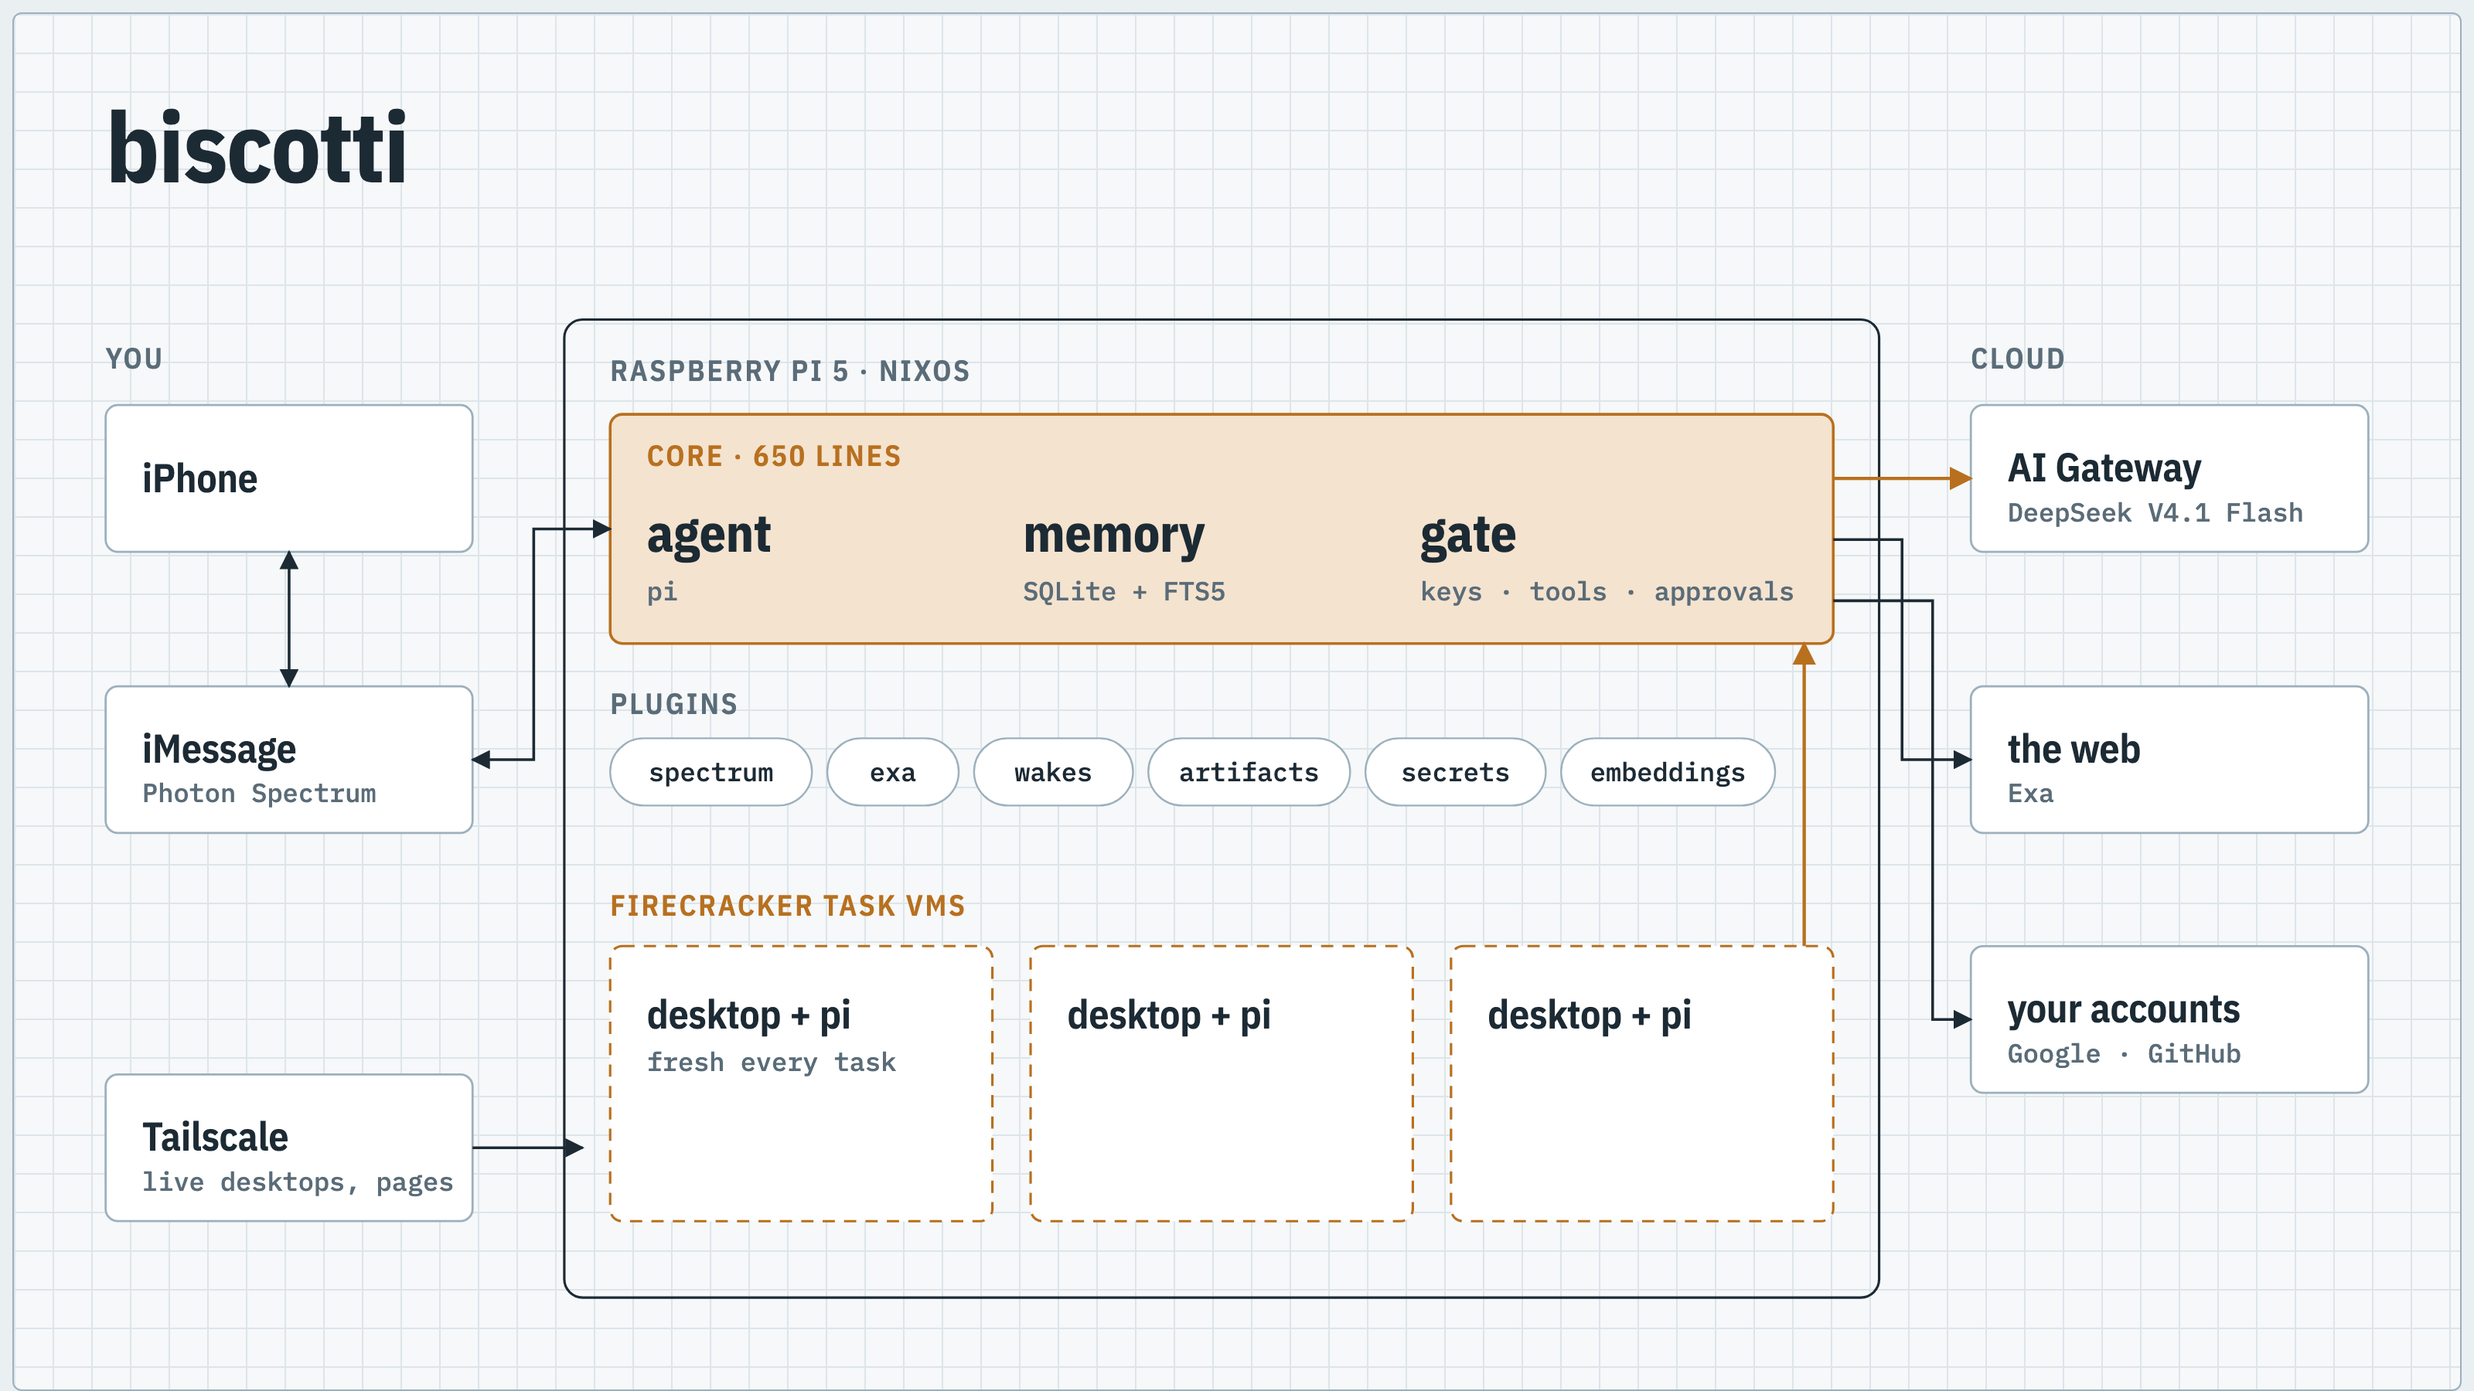
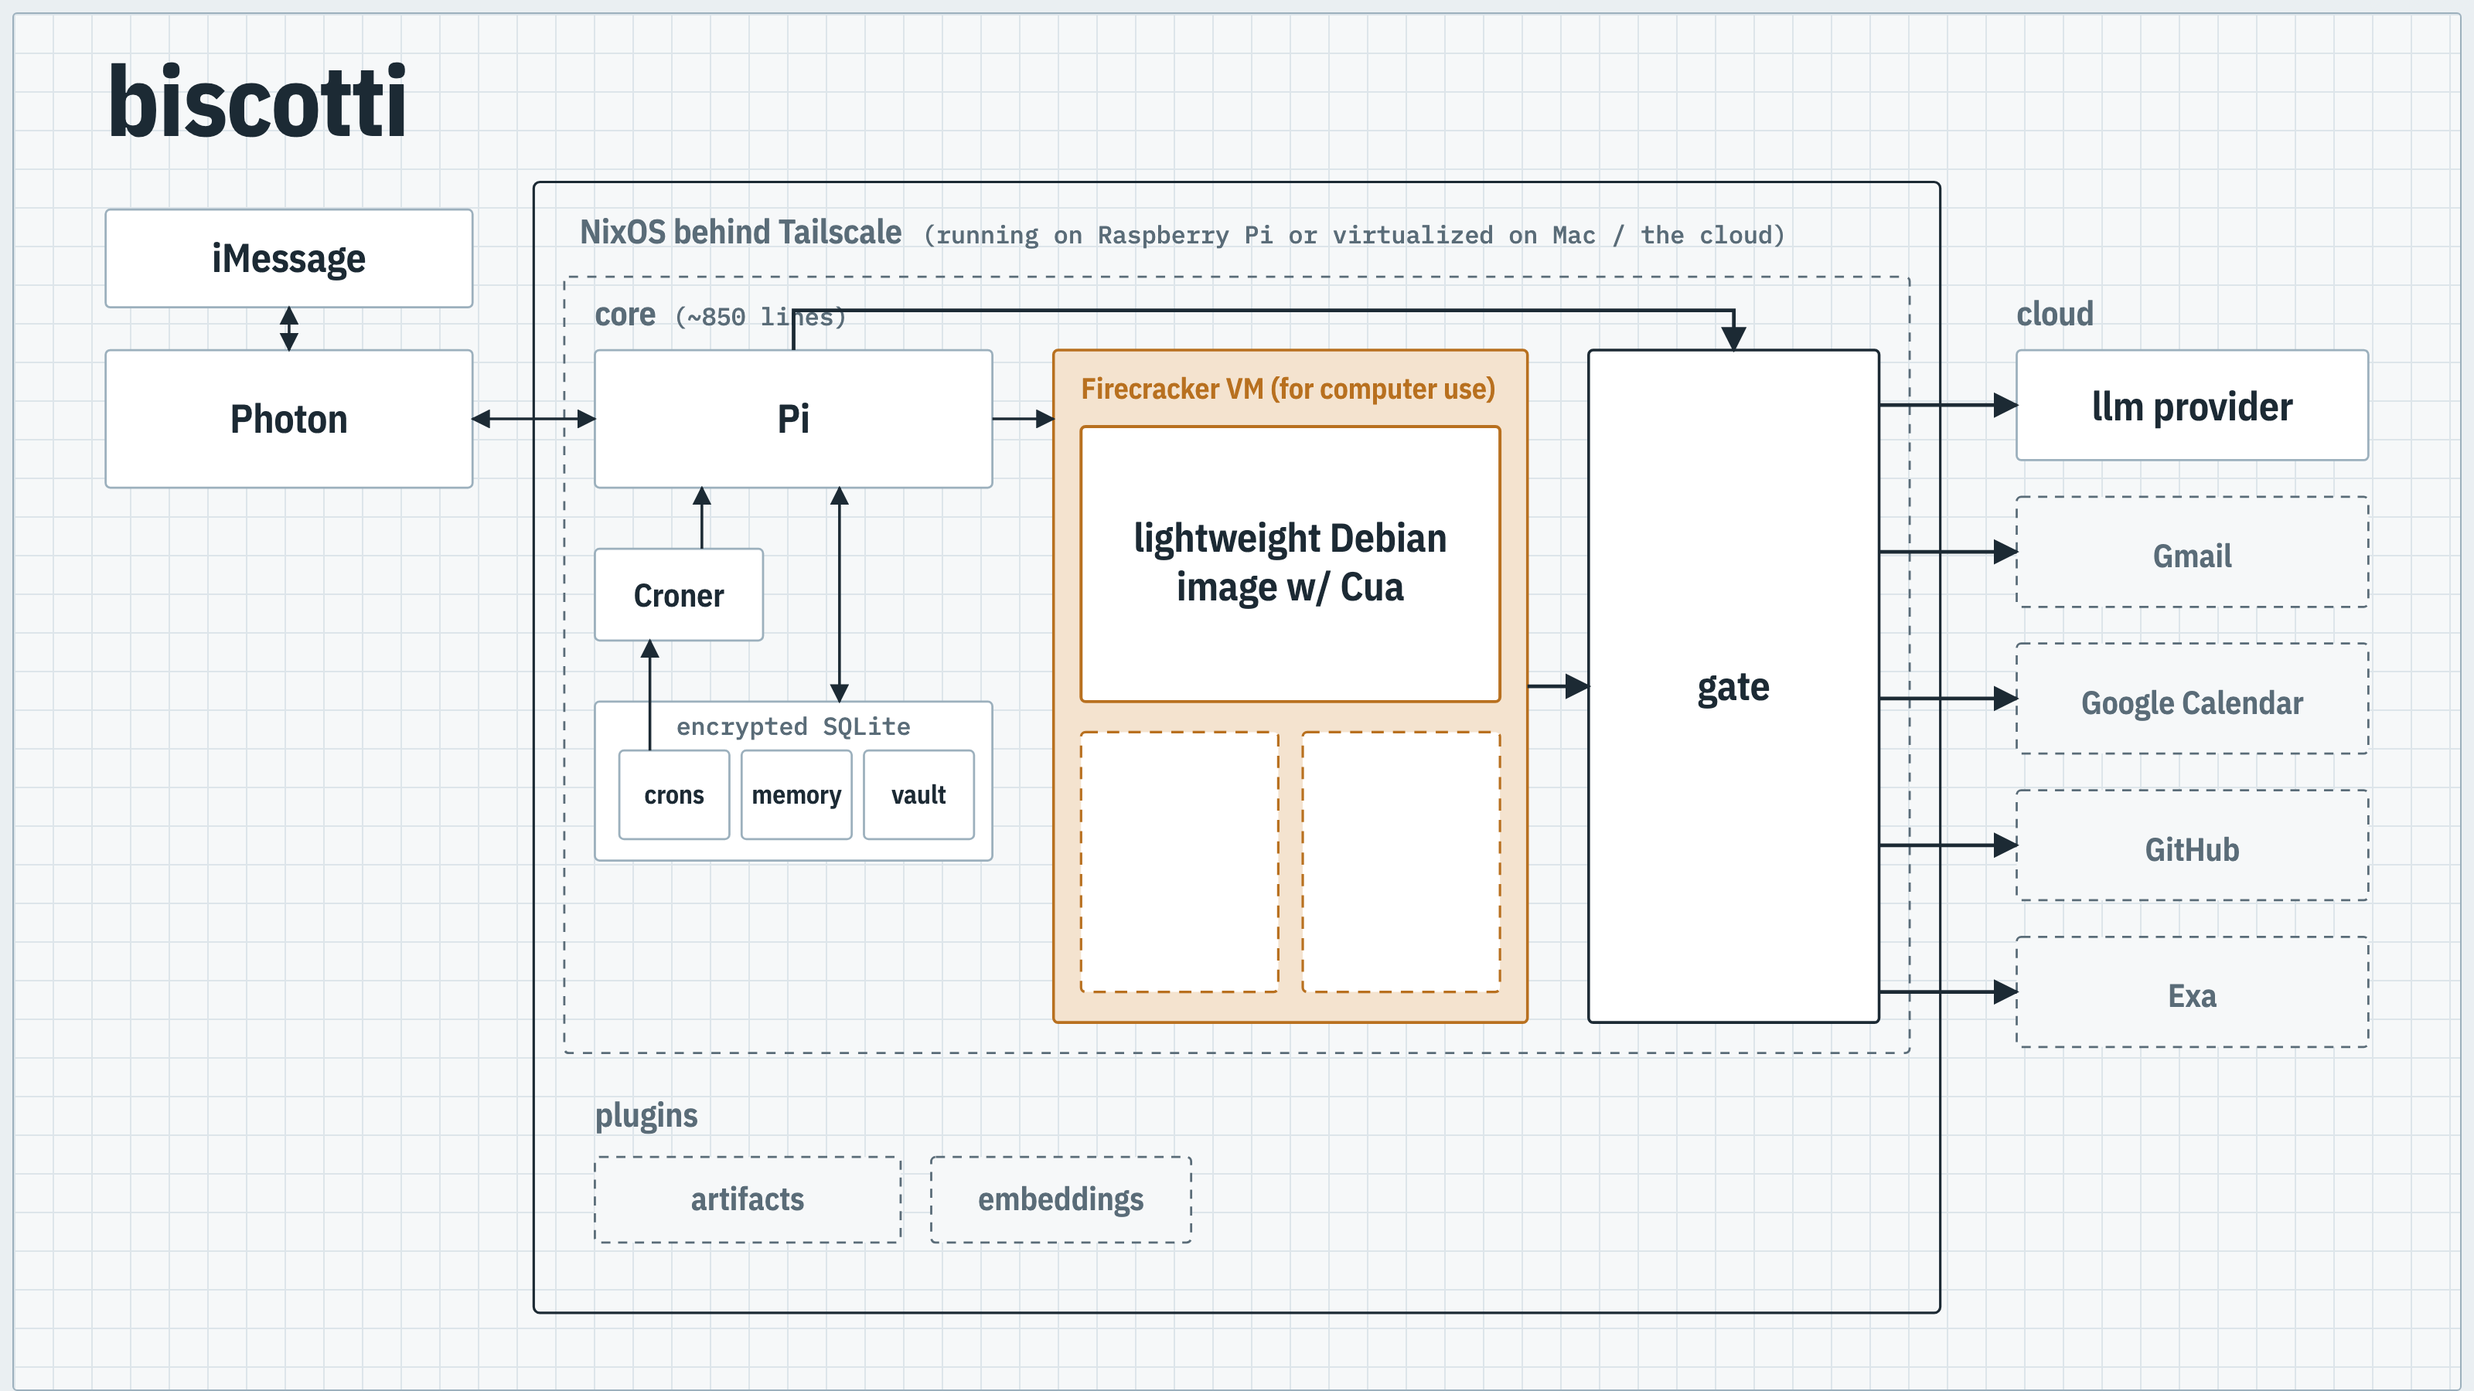
diagram

diff --git a/docs/architecture.html b/docs/architecture.html
@@ -14,19 +14,20 @@
     --grid: #dde5ea;
     --accent: #b8701f;
     --accent-soft: #f4e3cf;
+    --vm-bg: #e2eaf0;
     --display: "IBM Plex Sans Condensed", "Arial Narrow", sans-serif;
     --mono: "IBM Plex Mono", ui-monospace, monospace;
   }
   @media (prefers-color-scheme: dark) {
     :root:not([data-theme="light"]) {
       --bg: #10181e; --sheet: #141e25; --panel: #1b2730; --ink: #e2e9ee; --muted: #93a6b3;
-      --line: #465966; --grid: #1c2830; --accent: #e3a35a; --accent-soft: #3a2a17;
+      --line: #465966; --grid: #1c2830; --accent: #e3a35a; --accent-soft: #3a2a17; --vm-bg: #22323d;
       color-scheme: dark;
     }
   }
   :root[data-theme="dark"] {
     --bg: #10181e; --sheet: #141e25; --panel: #1b2730; --ink: #e2e9ee; --muted: #93a6b3;
-    --line: #465966; --grid: #1c2830; --accent: #e3a35a; --accent-soft: #3a2a17;
+    --line: #465966; --grid: #1c2830; --accent: #e3a35a; --accent-soft: #3a2a17; --vm-bg: #22323d;
     color-scheme: dark;
   }
   body {
@@ -43,100 +44,108 @@
     background-image: linear-gradient(var(--grid) 1px, transparent 1px), linear-gradient(90deg, var(--grid) 1px, transparent 1px);
     background-size: 25px 25px;
     border: 1px solid var(--line);
-    border-radius: 6px;
+    border-radius: 3px;
     overflow-x: auto;
   }
   svg { display: block; width: 100%; min-width: 900px; height: auto; }
   .box { fill: var(--panel); stroke: var(--line); stroke-width: 1.4; }
   .frame { fill: none; stroke: var(--ink); stroke-width: 1.6; }
   .core { fill: var(--accent-soft); stroke: var(--accent); stroke-width: 1.8; }
-  .vm { fill: var(--panel); stroke: var(--accent); stroke-width: 1.6; stroke-dasharray: 8 6; }
-  .chip { fill: var(--panel); stroke: var(--line); stroke-width: 1.2; }
+  .group { fill: none; stroke: var(--line); stroke-width: 1.4; }
+  .vms { fill: var(--accent-soft); stroke: var(--accent); stroke-width: 1.8; }
+  .gate { fill: var(--panel); stroke: var(--ink); stroke-width: 1.8; }
+  .region { fill: none; stroke: var(--muted); stroke-width: 1.4; stroke-dasharray: 6 6; }
+  .plugin { fill: var(--sheet); stroke: var(--muted); stroke-width: 1.4; stroke-dasharray: 6 5; }
+  .p { font: 600 21px var(--display); fill: var(--muted); }
+  .vm { fill: var(--panel); stroke: var(--accent); stroke-width: 2; }
+  .vm.idle { stroke-dasharray: 8 6; stroke-width: 1.6; }
   .title { font: 700 64px var(--display); fill: var(--ink); letter-spacing: -0.01em; }
   .t { font: 600 26px var(--display); fill: var(--ink); }
-  .big { font: 700 34px var(--display); fill: var(--ink); }
-  .s { font: 500 17px var(--mono); fill: var(--muted); }
-  .c { font: 500 17px var(--mono); fill: var(--ink); }
-  .label { font: 600 19px var(--display); fill: var(--muted); letter-spacing: 0.08em; text-transform: uppercase; }
+  .m { font: 600 21px var(--display); fill: var(--ink); }
+  .m.small { font-size: 17px; }
+  .s { font: 500 16px var(--mono); fill: var(--muted); }
+  .link { font: 500 16px var(--mono); fill: var(--accent); text-decoration: underline; }
+  .label { font: 600 22px var(--display); fill: var(--muted); }
   .label.key { fill: var(--accent); }
   .wire { fill: none; stroke: var(--ink); stroke-width: 1.8; }
-  .wire.key { stroke: var(--accent); stroke-width: 2.2; }
+  .wire.key { stroke: var(--ink); stroke-width: 2.4; }
   .arrow { fill: var(--ink); }
-  .arrow.key { fill: var(--accent); }
+  .arrow.key { fill: var(--ink); }
+  a:focus-visible rect { stroke-width: 3; }
 </style>
 
-<div class="sheet" role="img" aria-label="biscotti: you text from your iPhone through iMessage to a Raspberry Pi running NixOS. On it, a small core (agent, memory, gate) loads plugins. Task VMs run in Firecracker. Everything reaches the model and tools only through the gate, which holds the keys; Tailscale shows you the live desktops and pages.">
+<div class="sheet" role="img" aria-label="biscotti (dashed boxes are plugins): iMessage arrives through Photon at a Raspberry Pi running NixOS on your tailnet. The core holds pi, the gate (keys and permissions), an encrypted SQLite store for memory, crons and the vault, and Firecracker task VMs (Debian with Cua). Plugins add croner, HTML artifacts and embeddings. The LLM, Gmail, Google Calendar, GitHub and Exa web search are reached only through the gate.">
   <svg viewBox="0 0 1600 900" xmlns="http://www.w3.org/2000/svg">
     <defs>
       <marker id="a" viewBox="0 0 10 10" refX="9" refY="5" markerWidth="7" markerHeight="7" orient="auto-start-reverse"><path class="arrow" d="M0 0L10 5L0 10z"/></marker>
       <marker id="k" viewBox="0 0 10 10" refX="9" refY="5" markerWidth="7" markerHeight="7" orient="auto-start-reverse"><path class="arrow key" d="M0 0L10 5L0 10z"/></marker>
     </defs>
 
-    <text class="title" x="60" y="110">biscotti</text>
+    <text class="title" x="60" y="80">biscotti</text>
 
-    <!-- You -->
-    <text class="label" x="60" y="232">You</text>
-    <rect class="box" x="60" y="256" width="240" height="96" rx="8"/>
-    <text class="t" x="84" y="313">iPhone</text>
-    <rect class="box" x="60" y="440" width="240" height="96" rx="8"/>
-    <text class="t" x="84" y="490">iMessage</text>
-    <text class="s" x="84" y="516">Photon Spectrum</text>
-    <rect class="box" x="60" y="694" width="240" height="96" rx="8"/>
-    <text class="t" x="84" y="744">Tailscale</text>
-    <text class="s" x="84" y="770">live desktops, pages</text>
+    <!-- iMessage -->
+    <rect class="box" x="60" y="128" width="240" height="64" rx="3"/>
+    <text class="t" x="180" y="169" text-anchor="middle">iMessage</text>
+    <rect class="box" x="60" y="220" width="240" height="90" rx="3"/>
+    <text class="t" x="180" y="274" text-anchor="middle">Photon</text>
 
     <!-- Raspberry Pi -->
-    <rect class="frame" x="360" y="200" width="860" height="640" rx="12"/>
-    <text class="label" x="390" y="240">Raspberry Pi 5 · NixOS</text>
+    <rect class="frame" x="340" y="110" width="920" height="740" rx="4"/>
+    <text class="label" x="370" y="150">NixOS behind Tailscale <tspan class="s" dx="8">(running on Raspberry Pi or virtualized on Mac / the cloud)</tspan></text>
 
-    <rect class="core" x="390" y="262" width="800" height="150" rx="8"/>
-    <text class="label key" x="414" y="296">core · 650 lines</text>
-    <text class="big" x="414" y="352">agent</text>
-    <text class="s" x="414" y="384">pi</text>
-    <text class="big" x="660" y="352">memory</text>
-    <text class="s" x="660" y="384">SQLite + FTS5</text>
-    <text class="big" x="920" y="352">gate</text>
-    <text class="s" x="920" y="384">keys · tools · approvals</text>
+    <rect class="region" x="360" y="172" width="880" height="508" rx="3"/>
+    <text class="label" x="380" y="204">core <tspan class="s" dx="6">(~850 lines)</tspan></text>
 
-    <text class="label" x="390" y="458">plugins</text>
-    <g>
-      <rect class="chip" x="390" y="474" width="132" height="44" rx="22"/><text class="c" x="456" y="502" text-anchor="middle">spectrum</text>
-      <rect class="chip" x="532" y="474" width="86" height="44" rx="22"/><text class="c" x="575" y="502" text-anchor="middle">exa</text>
-      <rect class="chip" x="628" y="474" width="104" height="44" rx="22"/><text class="c" x="680" y="502" text-anchor="middle">wakes</text>
-      <rect class="chip" x="742" y="474" width="132" height="44" rx="22"/><text class="c" x="808" y="502" text-anchor="middle">artifacts</text>
-      <rect class="chip" x="884" y="474" width="118" height="44" rx="22"/><text class="c" x="943" y="502" text-anchor="middle">secrets</text>
-      <rect class="chip" x="1012" y="474" width="140" height="44" rx="22"/><text class="c" x="1082" y="502" text-anchor="middle">embeddings</text>
-    </g>
+    <rect class="box" x="380" y="220" width="260" height="90" rx="3"/>
+    <text class="t" x="510" y="274" text-anchor="middle">Pi</text>
 
-    <text class="label key" x="390" y="590">Firecracker task VMs</text>
-    <rect class="vm" x="390" y="610" width="250" height="180" rx="8"/>
-    <text class="t" x="414" y="664">desktop + pi</text>
-    <text class="s" x="414" y="692">fresh every task</text>
-    <rect class="vm" x="665" y="610" width="250" height="180" rx="8"/>
-    <text class="t" x="689" y="664">desktop + pi</text>
-    <rect class="vm" x="940" y="610" width="250" height="180" rx="8"/>
-    <text class="t" x="964" y="664">desktop + pi</text>
+    <rect class="box" x="380" y="350" width="110" height="60" rx="3"/>
+    <text class="m" x="435" y="388" text-anchor="middle">Croner</text>
+
+    <rect class="box" x="380" y="450" width="260" height="104" rx="3"/>
+    <rect class="box" x="396" y="482" width="72" height="58" rx="3"/><text class="m small" x="432" y="517" text-anchor="middle">crons</text>
+    <rect class="box" x="476" y="482" width="72" height="58" rx="3"/><text class="m small" x="512" y="517" text-anchor="middle">memory</text>
+    <rect class="box" x="556" y="482" width="72" height="58" rx="3"/><text class="m small" x="592" y="517" text-anchor="middle">vault</text>
+    <text class="s" x="510" y="472" text-anchor="middle">encrypted SQLite</text>
+
+    <rect class="vms" x="680" y="220" width="310" height="440" rx="3"/>
+    <text class="label key" x="698" y="252" style="font-size:19px">Firecracker VM (for computer use)</text>
+    <rect class="vm" x="698" y="270" width="274" height="180" rx="3"/>
+    <text class="t" x="835" y="352" text-anchor="middle">lightweight Debian</text>
+    <text class="t" x="835" y="384" text-anchor="middle">image w/ Cua</text>
+    <rect class="vm idle" x="698" y="470" width="129" height="170" rx="3"/>
+    <rect class="vm idle" x="843" y="470" width="129" height="170" rx="3"/>
+
+    <rect class="gate" x="1030" y="220" width="190" height="440" rx="3"/>
+    <text class="t" x="1125" y="449" text-anchor="middle">gate</text>
+
+    <!-- Plugins -->
+    <text class="label" x="380" y="728">plugins</text>
+    <rect class="plugin" x="380" y="748" width="200" height="56" rx="3"/><text class="p" x="480" y="783" text-anchor="middle">artifacts</text>
+    <rect class="plugin" x="600" y="748" width="170" height="56" rx="3"/><text class="p" x="685" y="783" text-anchor="middle">embeddings</text>
 
     <!-- Cloud -->
-    <text class="label" x="1280" y="232">Cloud</text>
-    <rect class="box" x="1280" y="256" width="260" height="96" rx="8"/>
-    <text class="t" x="1304" y="306">AI Gateway</text>
-    <text class="s" x="1304" y="332">DeepSeek V4.1 Flash</text>
-    <rect class="box" x="1280" y="440" width="260" height="96" rx="8"/>
-    <text class="t" x="1304" y="490">the web</text>
-    <text class="s" x="1304" y="516">Exa</text>
-    <rect class="box" x="1280" y="610" width="260" height="96" rx="8"/>
-    <text class="t" x="1304" y="660">your accounts</text>
-    <text class="s" x="1304" y="686">Google · GitHub</text>
+    <text class="label" x="1310" y="204">cloud</text>
+    <rect class="box" x="1310" y="220" width="230" height="72" rx="3"/><text class="t" x="1425" y="266" text-anchor="middle">llm provider</text>
+    <rect class="plugin" x="1310" y="316" width="230" height="72" rx="3"/><text class="p" x="1425" y="362" text-anchor="middle">Gmail</text>
+    <rect class="plugin" x="1310" y="412" width="230" height="72" rx="3"/><text class="p" x="1425" y="458" text-anchor="middle">Google Calendar</text>
+    <rect class="plugin" x="1310" y="508" width="230" height="72" rx="3"/><text class="p" x="1425" y="554" text-anchor="middle">GitHub</text>
+    <rect class="plugin" x="1310" y="604" width="230" height="72" rx="3"/><text class="p" x="1425" y="650" text-anchor="middle">Exa</text>
 
     <!-- Wires -->
-    <path class="wire" d="M180 352V440" marker-start="url(#a)" marker-end="url(#a)"/>
-    <path class="wire" d="M300 488H340V337H390" marker-start="url(#a)" marker-end="url(#a)"/>
-    <path class="wire" d="M300 742H372" marker-end="url(#a)"/>
-    <path class="wire key" d="M1190 304H1280" marker-end="url(#k)"/>
-    <path class="wire" d="M1190 344H1235V488H1280" marker-end="url(#a)"/>
-    <path class="wire" d="M1190 384H1255V658H1280" marker-end="url(#a)"/>
-    <!-- Task VMs reach the model and tools only through the gate. -->
-    <path class="wire key" d="M1171 610V412" marker-end="url(#k)"/>
+    <path class="wire" d="M180 192V220" marker-start="url(#a)" marker-end="url(#a)"/>
+    <path class="wire" d="M300 265H380" marker-start="url(#a)" marker-end="url(#a)"/>
+    <path class="wire" d="M416 482V410" marker-end="url(#a)"/>
+    <path class="wire" d="M450 350V310" marker-end="url(#a)"/>
+    <path class="wire" d="M540 310V450" marker-start="url(#a)" marker-end="url(#a)"/>
+    <path class="wire" d="M640 265H680" marker-end="url(#a)"/>
+    <!-- pi and the VMs reach everything outside only through the gate. -->
+    <path class="wire key" d="M510 220V194H1125V220" marker-end="url(#k)"/>
+    <path class="wire key" d="M990 440H1030" marker-end="url(#k)"/>
+    <path class="wire key" d="M1220 256H1310" marker-end="url(#k)"/>
+    <path class="wire key" d="M1220 352H1310" marker-end="url(#k)"/>
+    <path class="wire key" d="M1220 448H1310" marker-end="url(#k)"/>
+    <path class="wire key" d="M1220 544H1310" marker-end="url(#k)"/>
+    <path class="wire key" d="M1220 640H1310" marker-end="url(#k)"/>
   </svg>
 </div>

diff --git a/description-2.md b/description-2.md
@@ -1,0 +1,1 @@
+i got spooked about Instinct's privacy so i rolled my own - biscotti is a lightweight (~800 LOC) iMessage agent built on off-the-shelf tools (Pi, Firecracker VMs, Nix, Tailscale) to support computer use. i'm daily driving it on my Raspberry Pi and don't miss anything!
